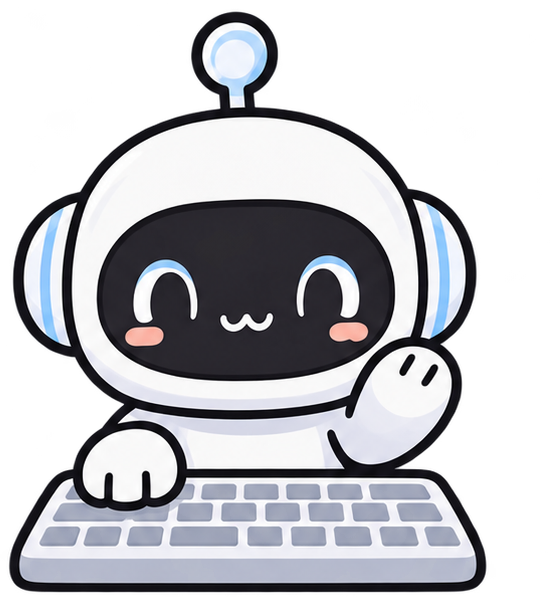
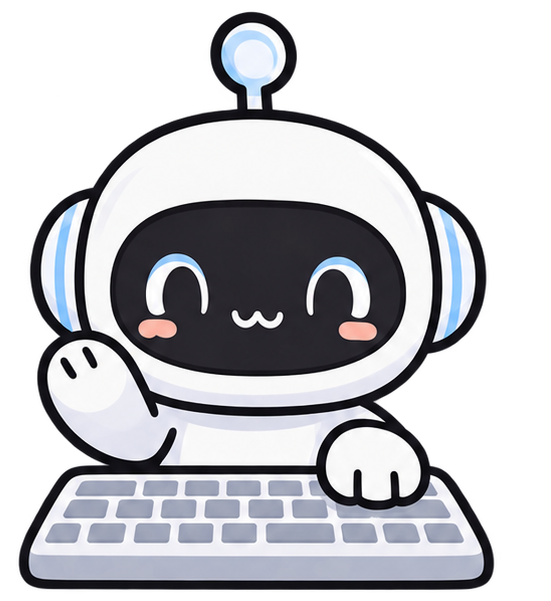
week-03 펫이 타자에 맞춰 움직이고 횟수를 셈
type2 는 type1 을 안테나 기준으로 좌우로 뒤집어 만들어 양손이 번갈아 보이게 함

Changed region(s): [[0.0, 0.0, 0.8947, 0.9884], [0.5862, 0.3295, 0.6479, 0.3594], [0.4936, 0.3295, 0.5245, 0.3594]]

diff --git a/week-03/pet.py b/week-03/pet.py
@@ -3,7 +3,8 @@
 import sys
 from pathlib import Path
 
-from PySide6.QtCore import Qt
+from pynput import keyboard
+from PySide6.QtCore import QObject, Qt, Signal
 from PySide6.QtGui import QPixmap
 from PySide6.QtWidgets import QApplication, QLabel, QMenu, QVBoxLayout, QWidget
 
@@ -13,6 +14,23 @@ ART = BASE / "art"
 
 SIZE = 150    # 펫 그림이 들어갈 네모 크기 (px)
 MARGIN = 16   # 화면 가장자리와 띄울 거리 (px)
+
+
+class KeyCounter(QObject):
+    """키가 눌렸다는 사실만 알려 준다. 어떤 키인지는 받자마자 버리고 어디에도 남기지 않는다."""
+
+    pressed = Signal()
+
+    def __init__(self):
+        super().__init__()
+        # pynput 은 다른 줄(스레드)에서 돌아서, 신호로 펫 창에 알린다.
+        self.listener = keyboard.Listener(on_press=lambda _key: self.pressed.emit())
+
+    def start(self):
+        self.listener.start()
+
+    def stop(self):
+        self.listener.stop()
 
 
 class Pet(QWidget):
@@ -35,14 +53,36 @@ class Pet(QWidget):
         layout.setContentsMargins(0, 0, 0, 0)
         layout.addWidget(self.picture)
 
+        # 펫 아래 "오늘 N타" (프로그램을 끄면 0부터 다시)
+        self.count = 0
+        self.counter_label = QLabel(alignment=Qt.AlignCenter)
+        self.counter_label.setFixedWidth(SIZE)
+        self.counter_label.setStyleSheet(
+            "color: white; background: rgba(30, 30, 40, 180);"
+            "border-radius: 9px; padding: 2px 8px; font-size: 12px; font-weight: bold;"
+        )
+        layout.addWidget(self.counter_label)
+        self.update_count_label()
+
         self.show_pose("rest")
         self.adjustSize()
         self.move_to_corner()
 
         self.drag_from = None
+        self.next_typing_pose = "type1"
 
     def show_pose(self, name):
         self.picture.setPixmap(self.poses[name])
+
+    def on_key(self):
+        # 누를 때마다 타자 ① ↔ ② 번갈아
+        self.count += 1
+        self.update_count_label()
+        self.show_pose(self.next_typing_pose)
+        self.next_typing_pose = "type2" if self.next_typing_pose == "type1" else "type1"
+
+    def update_count_label(self):
+        self.counter_label.setText(f"오늘 {self.count:,}타")
 
     def move_to_corner(self):
         # availableGeometry 는 작업 표시줄을 뺀 화면이라, 작업 표시줄 바로 위에 놓인다.
@@ -72,4 +112,9 @@ if __name__ == "__main__":
     app = QApplication(sys.argv)
     pet = Pet()
     pet.show()
-    sys.exit(app.exec())
+    keys = KeyCounter()
+    keys.pressed.connect(pet.on_key)
+    keys.start()
+    code = app.exec()
+    keys.stop()
+    sys.exit(code)

diff --git a/week-03/cut.py b/week-03/cut.py
@@ -8,10 +8,10 @@ ART = Path(__file__).parent / "art"
 PAD = 8  # 잘라 낸 그림 둘레에 남길 빈 곳 (px)
 
 # 칸 위치(열, 행) → 저장할 이름
+# 왼쪽 아래 칸은 type1 과 거의 같은 포즈라서 쓰지 않는다. type2 는 type1 을 뒤집어 만든다.
 POSES = {
     (0, 0): "rest.png",   # 두 손을 듦
     (1, 0): "type1.png",  # 왼손 키보드 · 오른손 듦
-    (0, 1): "type2.png",  # 두 손 키보드 · 한 손 흔듦
     (1, 1): "sleep.png",  # 자는 모습
 }
 
@@ -30,3 +30,13 @@ bottom = min(max(b[3] for b in boxes) + PAD, ch)
 for pos, name in POSES.items():
     cells[pos].crop((left, top, right, bottom)).save(ART / name)
     print(name, right - left, "x", bottom - top)
+
+# type2: type1 을 좌우로 뒤집어 오른손 키보드 · 왼손 듦 포즈를 만든다.
+# 그냥 뒤집으면 로봇이 옆으로 밀리니까, 안테나(맨 위 20줄)의 가운데를 기준선으로 뒤집는다.
+type1 = Image.open(ART / "type1.png")
+antenna = type1.crop((0, 0, type1.width, 20 + PAD)).getchannel("A").point(lambda a: 255 if a > 16 else 0).getbbox()
+axis = (antenna[0] + antenna[2] - 1) / 2
+type2 = Image.new("RGBA", type1.size)
+type2.alpha_composite(type1.transpose(Image.FLIP_LEFT_RIGHT), (round(2 * axis - (type1.width - 1)), 0))
+type2.save(ART / "type2.png")
+print("type2.png", type2.width, "x", type2.height, "(type1 을 x =", axis, "기준으로 뒤집음)")

diff --git a/week-03/plan.md b/week-03/plan.md
@@ -8,7 +8,8 @@
 |---|---|---|
 | 왼쪽 위 | 두 손을 듦 | 쉬기: 키를 1초 동안 안 누르면 |
 | 오른쪽 위 | 왼손 키보드 · 오른손 듦 | 타자 ①: 키를 누를 때마다 ②와 번갈아 |
-| 왼쪽 아래 | 두 손 키보드 · 한 손 흔듦 | 타자 ②: 키를 누를 때마다 ①과 번갈아 |
+| 오른쪽 위를 좌우로 뒤집음 | 오른손 키보드 · 왼손 듦 | 타자 ②: 키를 누를 때마다 ①과 번갈아 |
+| 왼쪽 아래 | 오른쪽 위와 거의 같은 포즈 | 쓰지 않음 |
 | 오른쪽 아래 | 자는 모습 (zzz) | 자기: 키를 30초 동안 안 누르면 |
 
 - 펫 크기는 150px, 작업 표시줄 바로 위에 둔다.
